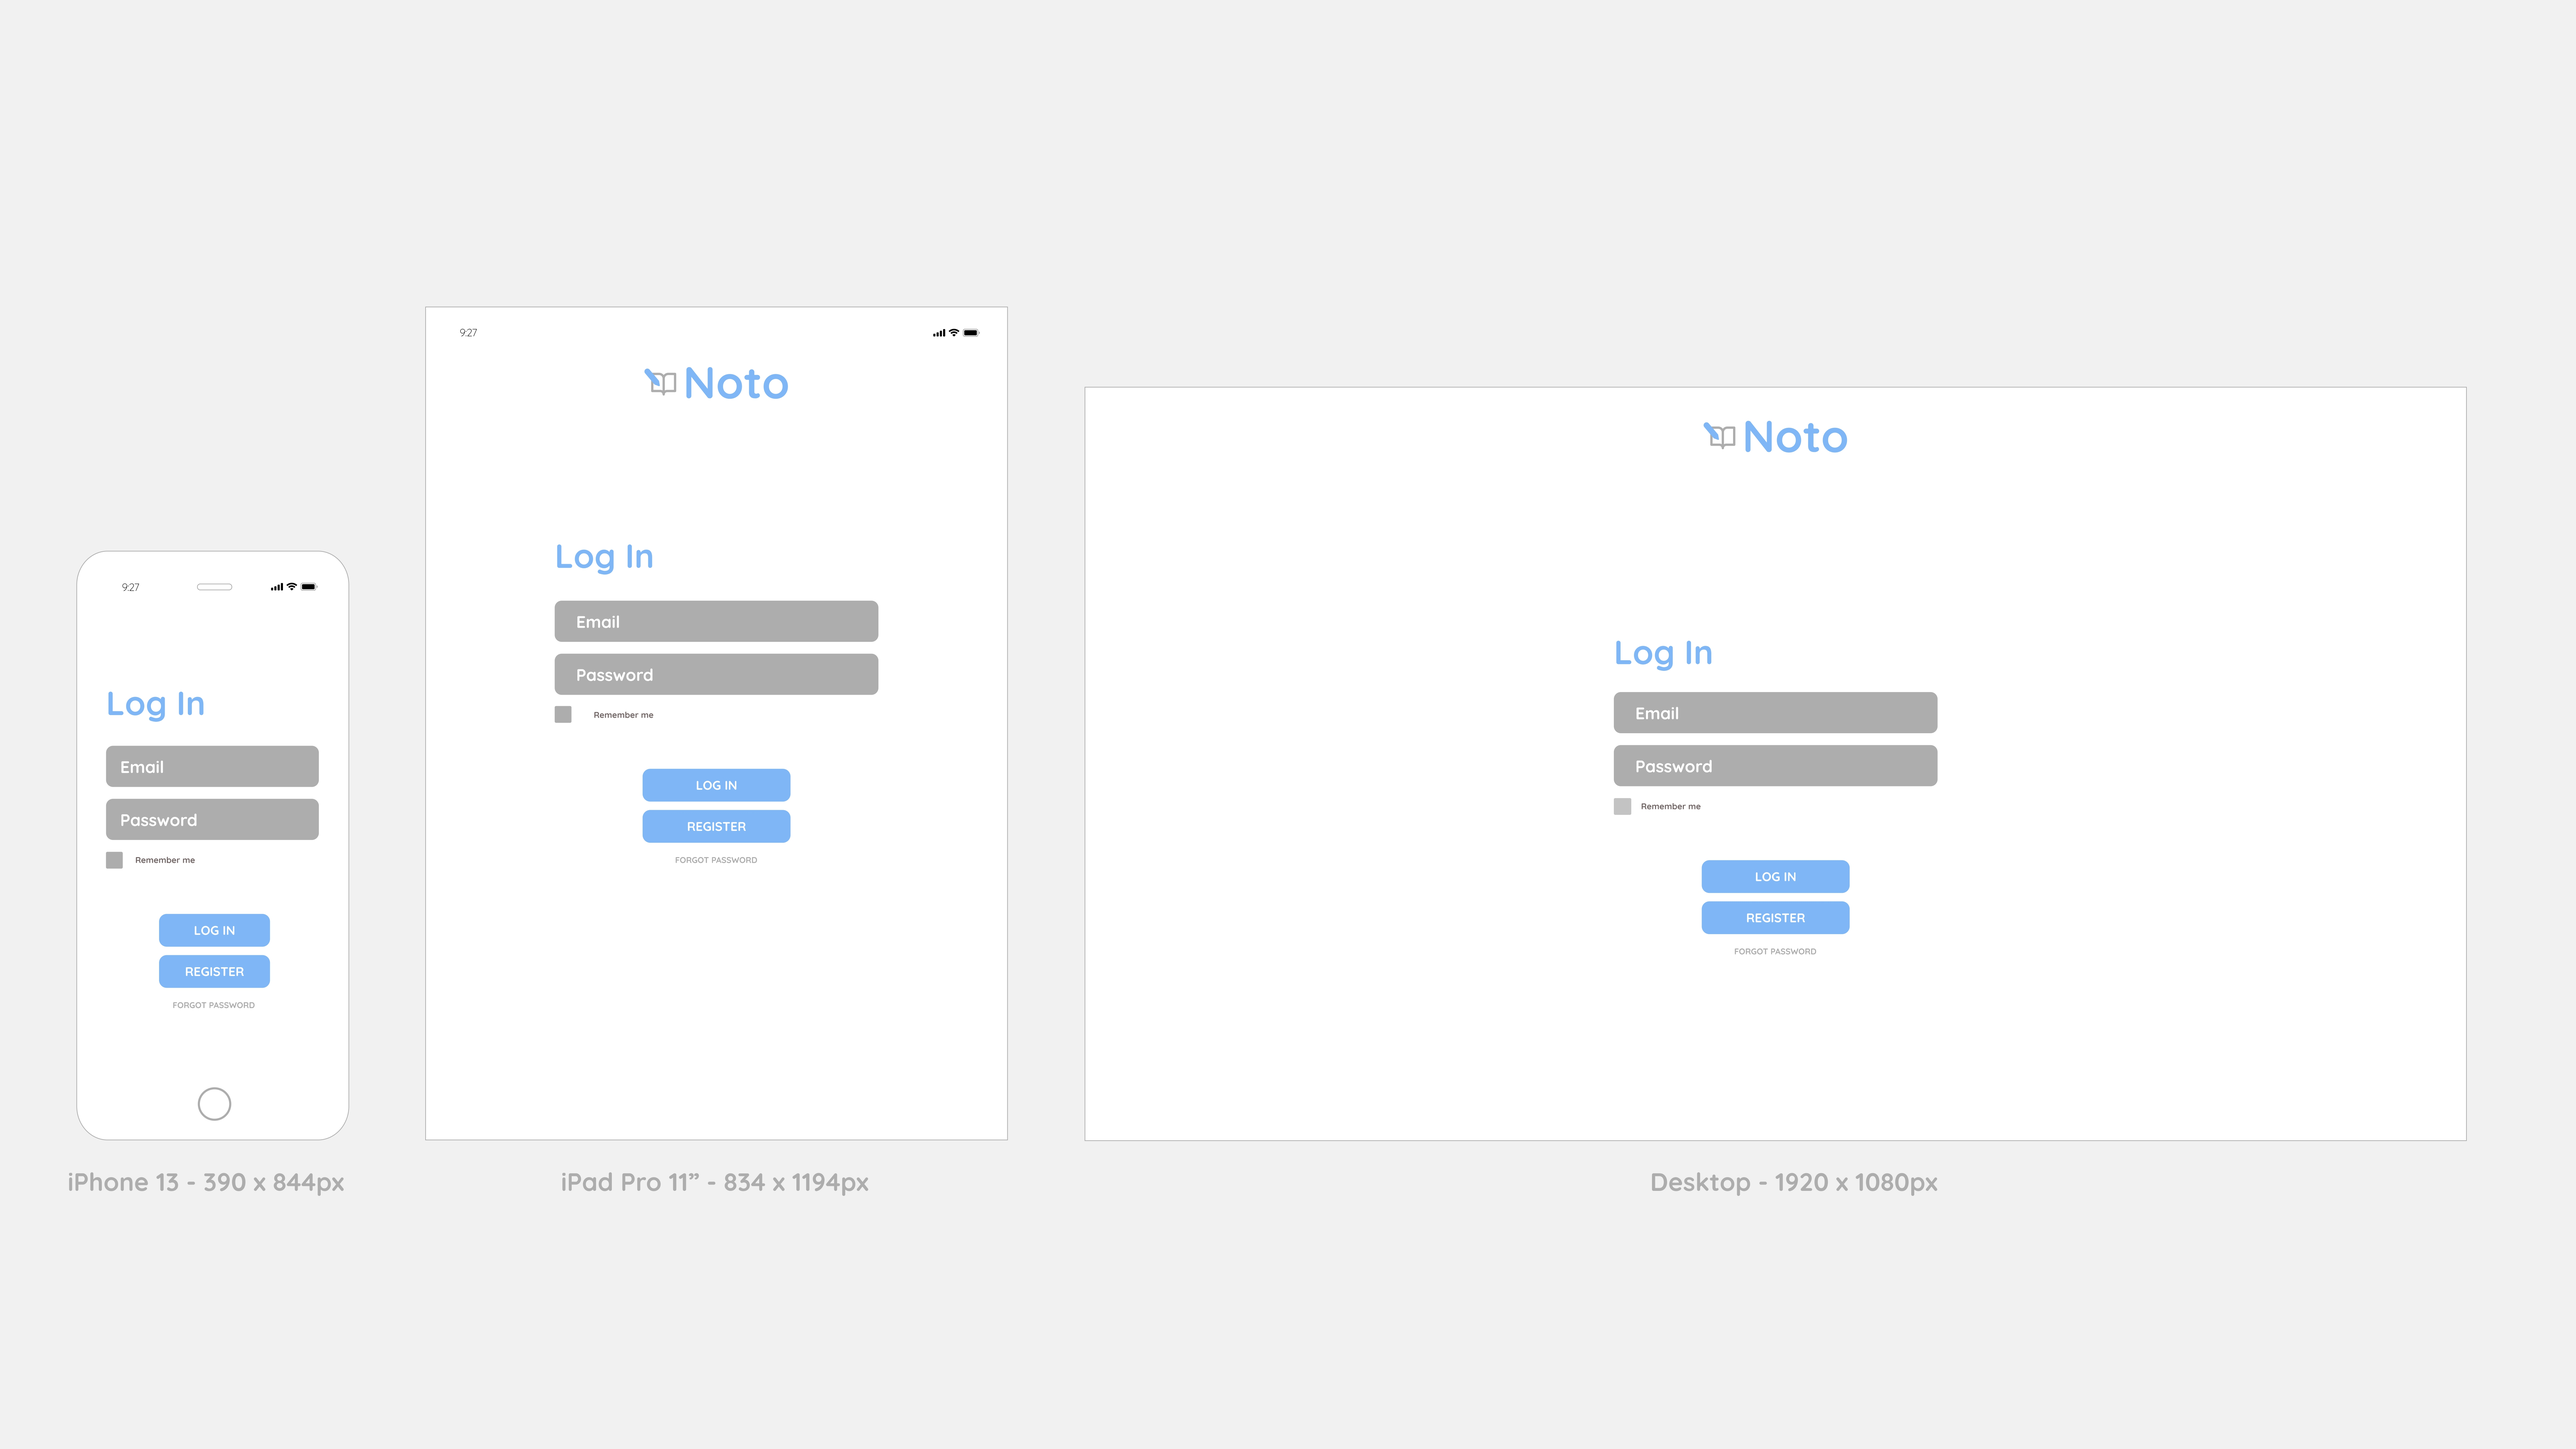
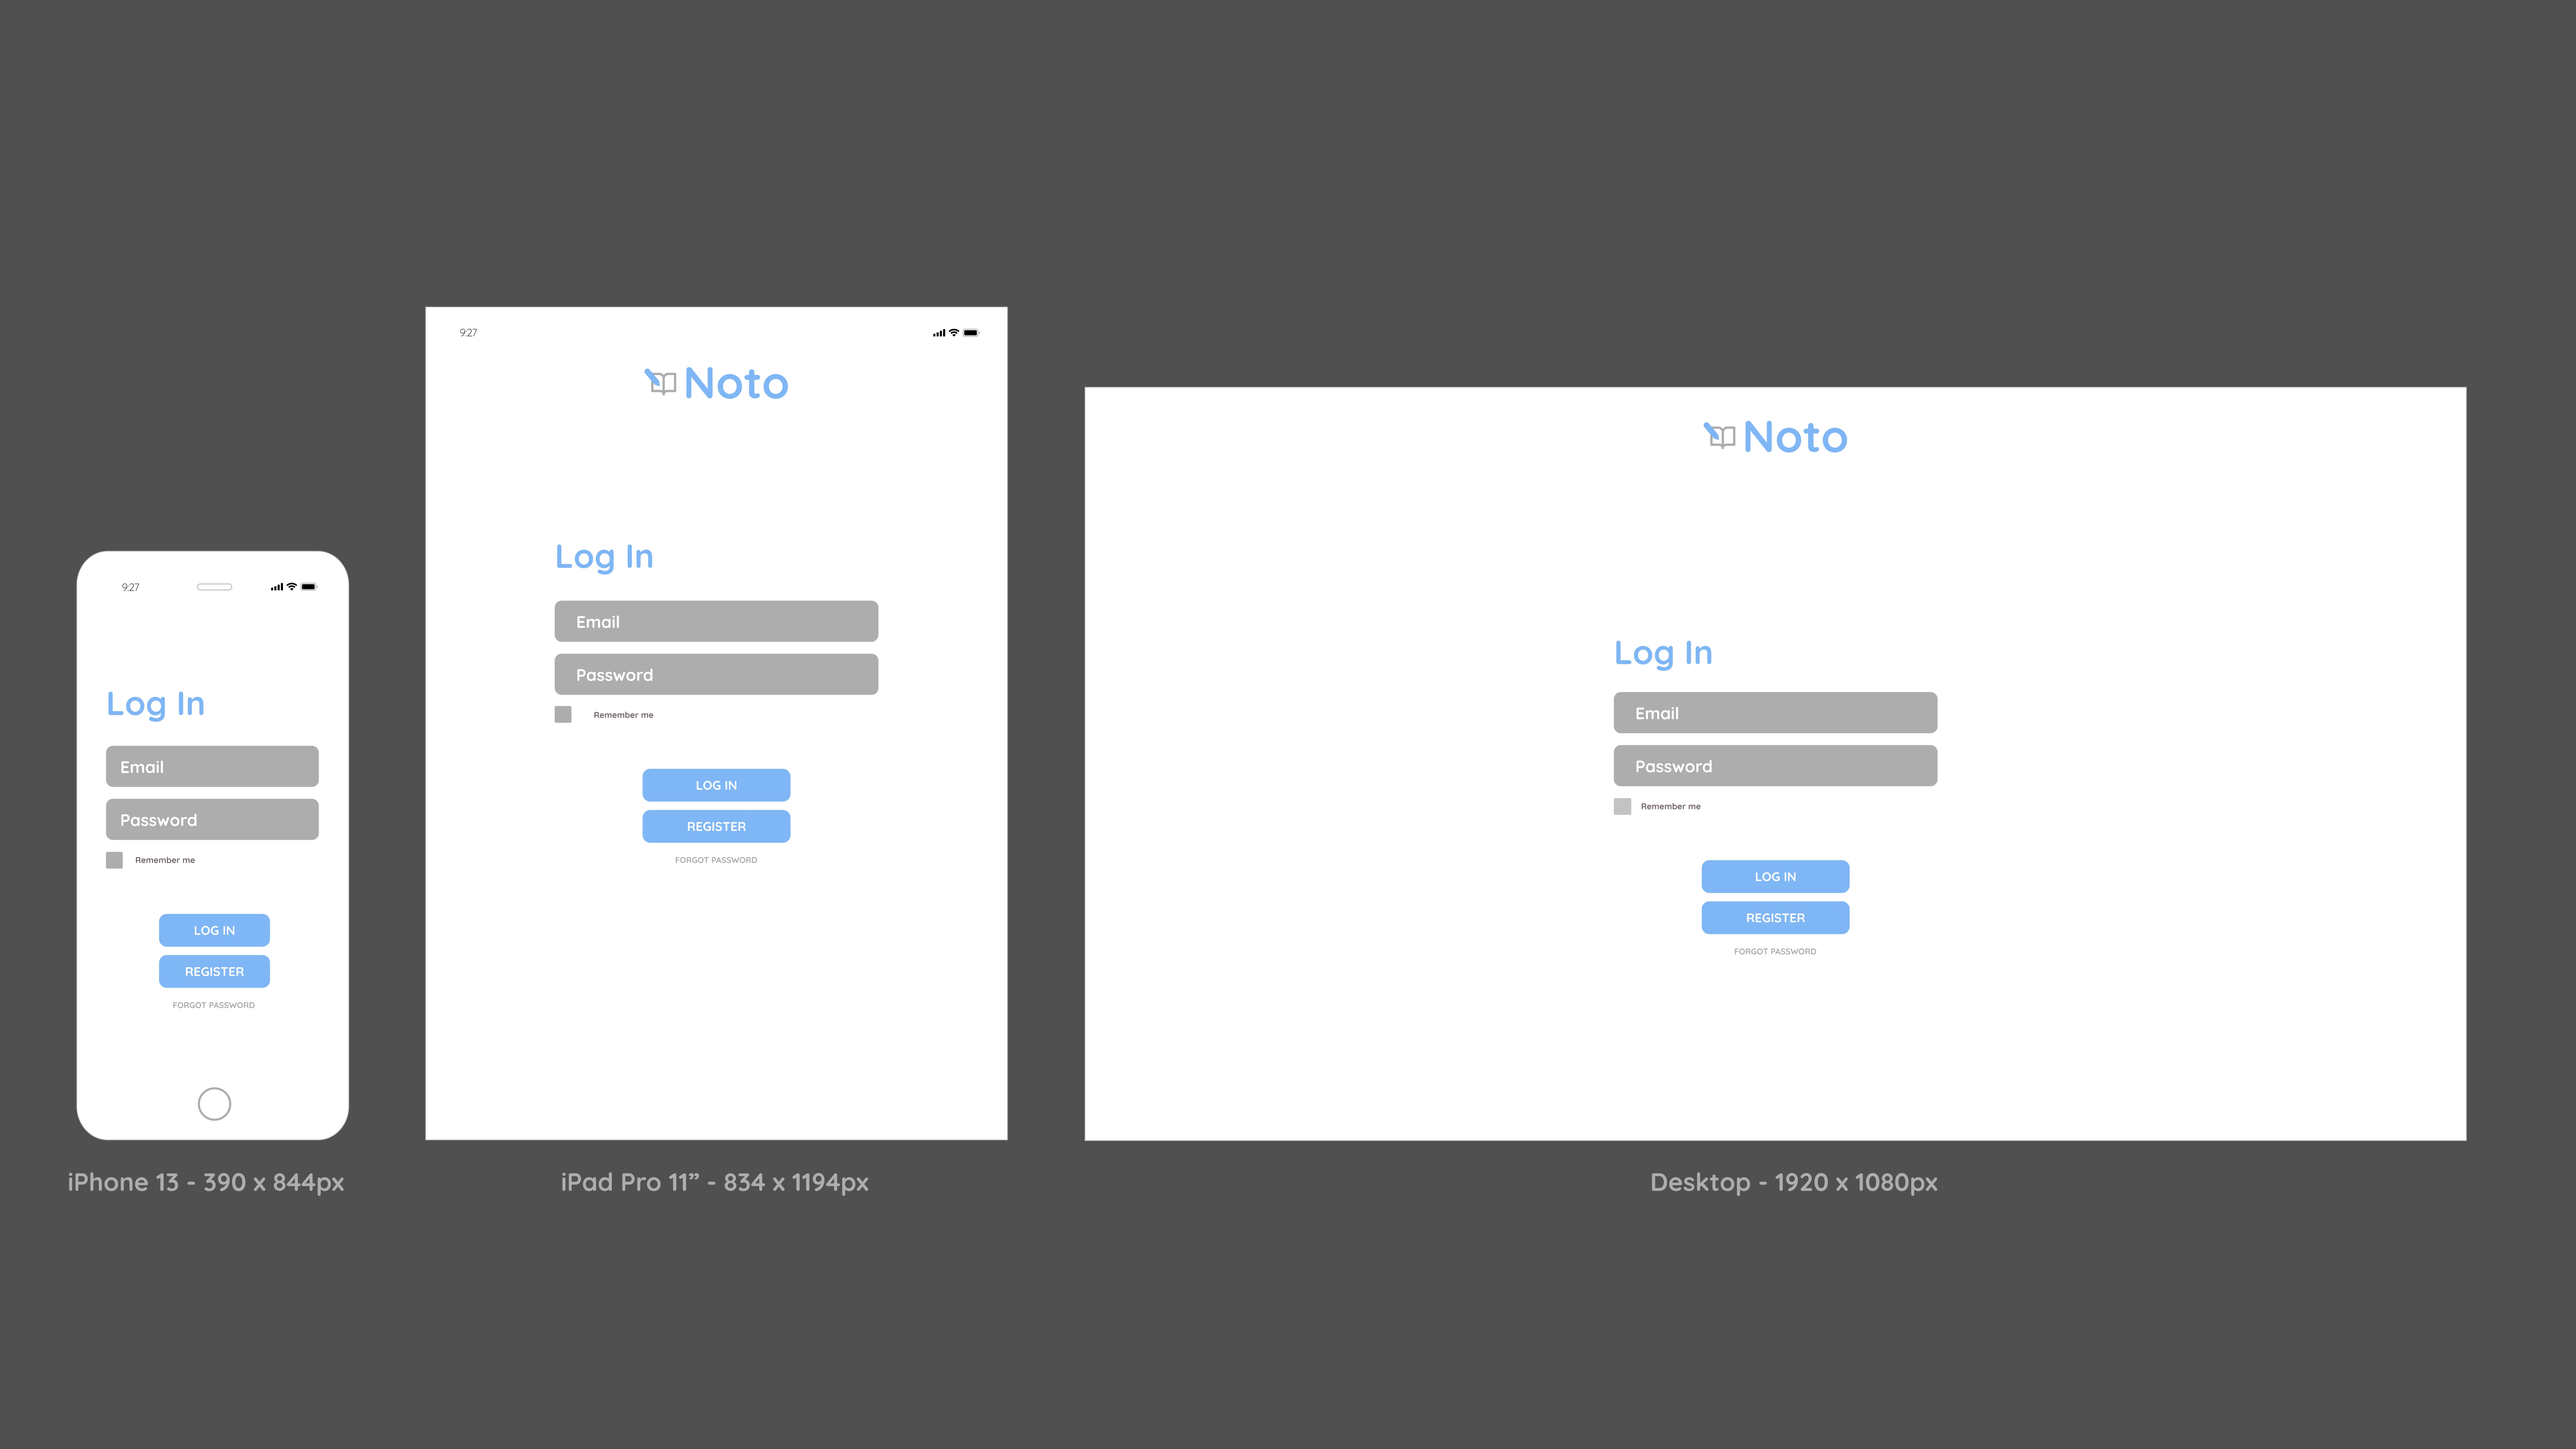
Added wireframes screenshots to readme document, changed wireframe background to dark, fixed tech stack in readme, added AAD to readme

diff --git a/README.md b/README.md
@@ -50,25 +50,32 @@ Sometimes there's a tried and true method of doing something that you want to ke
 - React - Client front-end framework for JavaScript
 - Ruby - Programming language for Server
 - Ruby on Rails - Server side web application framework
-- Heroku/AWS - Deployment
+- Heroku - Deployment
 - Amazon S3 - Image storage
 - PostgreSQL - SQL Database
 - Trello - Project managment software
+- Git/GitHub - Source control
+- Emotion React - CSS library for styling
+- Devise - Authentication Gem for Ruby on Rails
+
+### Auxiliary Tools
+
 - Figma - Vector graphics editor and prototyping tool, for wireframing/prototyping
 - Canva - Online design and publishing tool, for slide deck
-- Git/GitHub - Source control
 - LucidApp - Collaborative drawing tool for charts and diagrams, for dataflow and application architecture diagrams
 - Diagrams.net - Diagram drawing tool, for entity relationship diagram
-- (styling framework?)
-- (authentication package?)
 
 ## Dataflow Diagram
 
 Link: https://lucid.app/documents/view/3ff91798-f434-4dd4-a684-32f0a55bc2a3
 
+![DFD](docs/diagram_screenshots/Noto_DFD.png)
+
 ## Application Architecture Diagram
 
 Link: https://lucid.app/lucidchart/d30ad452-8ff5-460d-9bb3-cc0da4fdfadd/edit?invitationId=inv_97834abe-af5f-4288-af0e-7217bad3aa78
+
+![AAD](docs/diagram_screenshots/Noto_AAD.png)
 
 ## User Stories
 
@@ -104,17 +111,31 @@ Link: https://lucid.app/lucidchart/d30ad452-8ff5-460d-9bb3-cc0da4fdfadd/edit?inv
 - As **Wallace**, I want to add users to my created group, so that I can control who has access to the group
 - As **Wallace**, I want to remove users from my created group, so that I can control who has access to the group
 
-## Dataflow Diagram
-
-Link: https://lucid.app/documents/view/3ff91798-f434-4dd4-a684-32f0a55bc2a3
-
-![DFD](docs/diagram_screenshots/DFD.png)
-
-## Application Architecture Diagram
-
-Link: https://lucid.app/lucidchart/d30ad452-8ff5-460d-9bb3-cc0da4fdfadd/edit?invitationId=inv_97834abe-af5f-4288-af0e-7217bad3aa78
-
 ## Wireframes
+
+Homepage
+![Homepage](docs\wireframes\Noto_Homepage.jpg)
+
+Log in Page
+![Log In Page](docs\wireframes\Noto_LogIn.jpg)
+
+Register Page
+![Register Page](docs\wireframes\Noto_Register.jpg)
+
+Forgot Password Page
+![Forgot Password Page](docs\wireframes\Noto_ForgotPass.jpg)
+
+Index Page
+![Index Page](docs\wireframes\Noto_Index.jpg)
+
+Expanded Note Page
+![Expanded Note](docs\wireframes\Noto_ExpandedNote.jpg)
+
+Nav
+![Nav](docs\wireframes\Noto_Nav.jpg)
+
+New Note Page
+![New Note](docs\wireframes\Noto_NewNote.jpg)
 
 LInk: https://www.figma.com/file/dXzI59LuJz7YL4fzqnZwnJ/Noto?node-id=0%3A1
 
